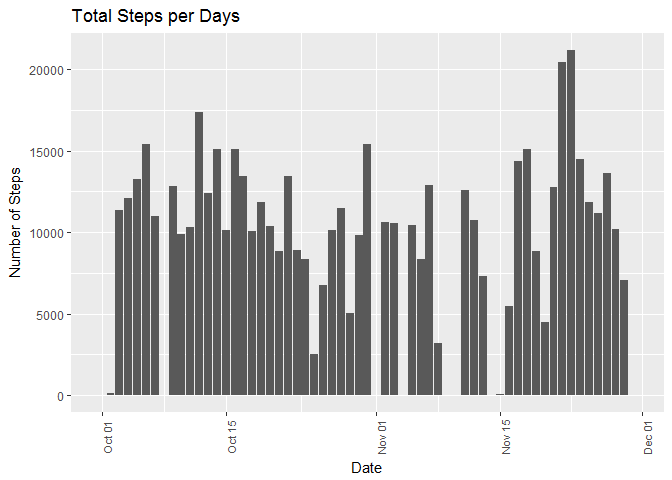
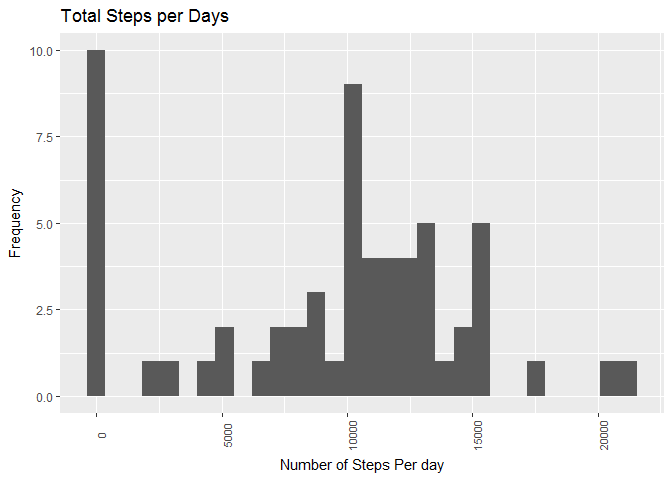
Updated Submission

diff --git a/PA1_template.html b/PA1_template.html
@@ -160,12 +160,11 @@ head(steps_per_day)</code></pre>
 ## 6 2012-10-06 15420</code></pre>
 <p>2- Plot histogram for total steps per day: ggplot is used to plot out the total number of steps per day aggregated in step 1.</p>
 <pre class="r"><code>library(ggplot2)
-g&lt;- ggplot(steps_per_day, aes(x=date, y = x))
-g&lt;- g + geom_histogram(stat = 'identity') </code></pre>
-<pre><code>## Warning: Ignoring unknown parameters: binwidth, bins, pad</code></pre>
-<pre class="r"><code>g&lt;- g + labs(x=&quot;Date&quot;,y=&quot;Number of Steps&quot;,title=&quot;Total Steps per Days&quot;)
+g&lt;- ggplot(steps_per_day, aes(x=x))
+g &lt;- g + geom_histogram(bins = 30)
+g&lt;- g + labs(x=&quot;Number of Steps Per day&quot;,y=&quot;Frequency&quot;,title=&quot;Total Steps per Days&quot;)
 g + theme(axis.text.x = element_text(size=8,angle = 90))</code></pre>
[2 lines of base64/hex data omitted]
 <p>3- Calculate mean and median of the total number of steps taken per day:</p>
 <pre class="r"><code>print(paste(&quot;Total Steps per day mean =&quot; , format(mean(steps_per_day$x), digits=2, nsmall=2)))</code></pre>
 <pre><code>## [1] &quot;Total Steps per day mean = 9354.23&quot;</code></pre>
@@ -220,18 +219,17 @@ head(udt,3)</code></pre>
 <p>4-1 Plot histogram of the total number of steps taken each day: we first aggregate the new dataset by summung the updated number of steps by date, then plot the result into histogram.</p>
 <pre class="r"><code>steps_per_day&lt;-aggregate(udt$steps_wNA,list(date=udt$date),sum,na.rm=TRUE)
 
-g&lt;-ggplot(steps_per_day, aes(x=date, y = x))
-g&lt;- g + labs(x=&quot;Total number of Steps&quot;,y=&quot;Date&quot;,title=&quot;Time Series of \n Total Steps per Date&quot;)
-g + geom_histogram(stat = 'identity') + theme(axis.text.x = element_text(size=8,angle = 90))</code></pre>
-<pre><code>## Warning: Ignoring unknown parameters: binwidth, bins, pad</code></pre>
[1 lines of base64/hex data omitted]
+g&lt;-ggplot(steps_per_day, aes(x=x))
+g&lt;- g + labs(x=&quot;Total number of Steps&quot;,y=&quot;Frequency&quot;,title=&quot;Total Steps per Date&quot;)
+g + geom_histogram(bins = 30) + theme(axis.text.x = element_text(size=8,angle = 90))</code></pre>
[1 lines of base64/hex data omitted]
 <p>4-2 Calculate mean and median of the new total number of steps taken per day:</p>
 <pre class="r"><code>print(paste(&quot;Total Steps per day mean =&quot; , format(mean(steps_per_day$x), digits=2, nsmall=2)))</code></pre>
 <pre><code>## [1] &quot;Total Steps per day mean = 10829.00&quot;</code></pre>
 <pre class="r"><code>print(paste(&quot;Total Steps per day median =&quot; , format(median(steps_per_day$x), digits=2, nsmall=2)))</code></pre>
 <pre><code>## [1] &quot;Total Steps per day median = 11015.00&quot;</code></pre>
 <p>4-3 Compare the result of the updated dataset versus the original dataset to illustrate the impact of replacing the missing values on the overall results:</p>
-<p>Comparing the Histograms for both cases, we can notice that replacing NAs doesn’t change the peaks which are days with highest number of steps. Replacing NAs fills the many gaps resulted from missing total steps.</p>
+<p>Comparing the Histograms for both cases, we can notice that replacing NAs doesn’t change most of the peaks which are days with highest number of steps. A new peak can be noticed at the left of the updated dataset.</p>
 <p>Comparing the mean/median values for both cases, we cannot see significant difference with (+13.6%) in the mean value, and (+5%) in the mean value.</p>
 <p>This result shows that the deviced strategy helps to reduce the anomality of having missed values during the data analysis, though, it doesn’t impact the overall behavior of the results.</p>
 </div>

diff --git a/PA1_template.md b/PA1_template.md
@@ -60,16 +60,9 @@ head(steps_per_day)
 
 ```r
 library(ggplot2)
-g<- ggplot(steps_per_day, aes(x=date, y = x))
-g<- g + geom_histogram(stat = 'identity') 
-```
-
-```
-## Warning: Ignoring unknown parameters: binwidth, bins, pad
-```
-
-```r
-g<- g + labs(x="Date",y="Number of Steps",title="Total Steps per Days")
+g<- ggplot(steps_per_day, aes(x=x))
+g <- g + geom_histogram(bins = 30)
+g<- g + labs(x="Number of Steps Per day",y="Frequency",title="Total Steps per Days")
 g + theme(axis.text.x = element_text(size=8,angle = 90))
 ```
 
@@ -196,13 +189,9 @@ head(udt,3)
 ```r
 steps_per_day<-aggregate(udt$steps_wNA,list(date=udt$date),sum,na.rm=TRUE)
 
-g<-ggplot(steps_per_day, aes(x=date, y = x))
-g<- g + labs(x="Total number of Steps",y="Date",title="Time Series of \n Total Steps per Date")
-g + geom_histogram(stat = 'identity') + theme(axis.text.x = element_text(size=8,angle = 90))
-```
-
-```
-## Warning: Ignoring unknown parameters: binwidth, bins, pad
+g<-ggplot(steps_per_day, aes(x=x))
+g<- g + labs(x="Total number of Steps",y="Frequency",title="Total Steps per Date")
+g + geom_histogram(bins = 30) + theme(axis.text.x = element_text(size=8,angle = 90))
 ```
 
 ![](PA1_template_files/figure-html/Updated Numberofsteps plot-1.png)<!-- -->
@@ -228,7 +217,7 @@ print(paste("Total Steps per day median =" , format(median(steps_per_day$x), dig
 
   4-3 Compare the result of the updated dataset versus the original dataset to illustrate the impact of replacing the missing values on the overall results:
   
-  Comparing the Histograms for both cases, we can notice that replacing NAs doesn't change the peaks which are days with highest number of steps. Replacing NAs fills the many gaps resulted from missing total steps. 
+  Comparing the Histograms for both cases, we can notice that replacing NAs doesn't change most of the peaks which are days with highest number of steps. A new peak can be noticed at the left of the updated dataset. 
   
   Comparing the mean/median values for both cases, we cannot see significant difference with (+13.6%) in the mean value, and (+5%) in the mean value.
   
